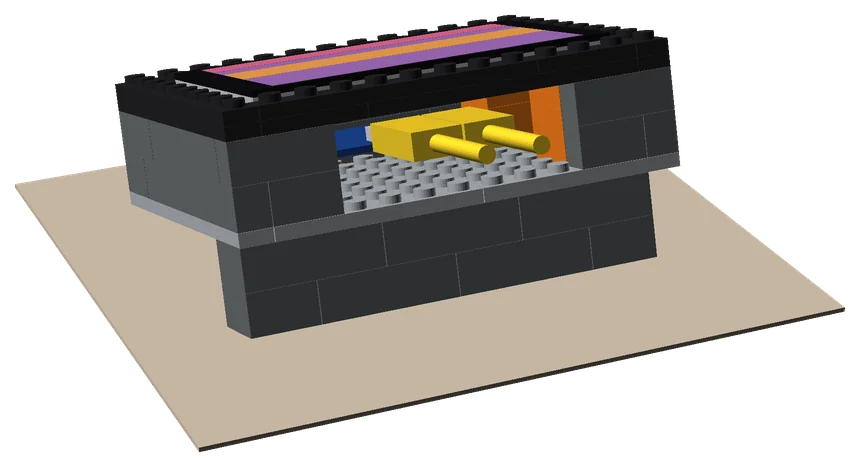
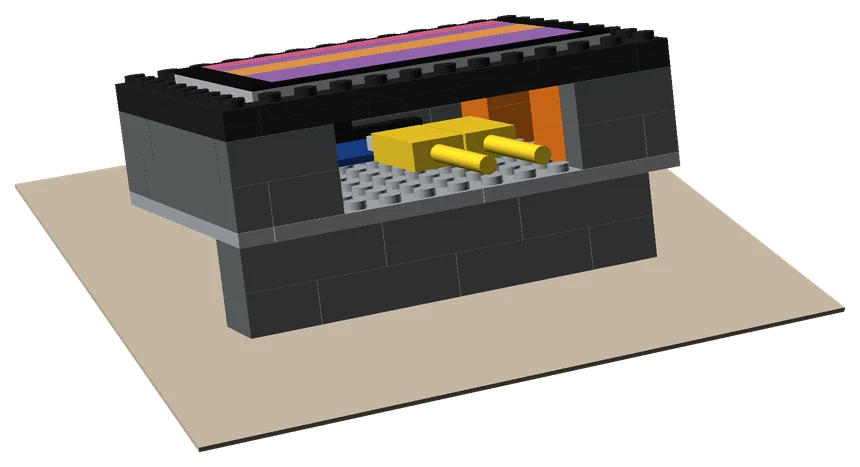
Screen page: the Lego tray reworked to the measured box
Taller pillars (22.4 mm), a single tile as the stop, 49 parts in 13 kinds.
The sizes are now read from photos of the real box; the page says so, and
what to do at step 4 if the pins touch the floor.

Claude-Session: https://claude.ai/code/session_01T5obJLGpxqm4RGcUwvyqqe

Changed region(s): [[0.1814, 0.03, 0.7256, 0.2099], [0.3628, 0.2099, 0.6651, 0.3897]]

diff --git a/web/screen/index.html b/web/screen/index.html
@@ -266,14 +266,14 @@ p.small code { overflow-wrap: anywhere; }
 <div><p class="kick">A stand from bricks</p><h2 id="trayh">Build it a Lego tray</h2></div></div>
 <div class="buy">
 <div>
-<p class="stand">A tray of ordinary Lego bricks that holds the VOXBOX <em>at a tilt</em>: 53 parts, seven steps.</p>
-<p class="caveat"><b>An untested design.</b> Nobody has built it from real bricks yet; I plan to. It is drawn around guesses at the boards' sizes, not measurements, so try the fit with the real boards at step 4.</p>
+<p class="stand">A tray of ordinary Lego bricks that holds the VOXBOX <em>at a tilt</em>: 49 parts, seven steps.</p>
+<p class="caveat"><b>An untested design.</b> Nobody has built it from real bricks yet; I plan to. Its sizes are read from photos of the real box, not taken with a ruler, and the tightest gap is 1.2 mm, so try the fit with the real boards at step 4.</p>
 <p class="vids"><a class="btn go big" href="voxbox-lego-tray.ldr" download>Download the model</a></p>
-<p class="small" style="margin-top:14px">voxbox-lego-tray.ldr, an LDraw file, 2,848 bytes. It opens in BrickLink's free Studio; how is in the small print below.</p>
+<p class="small" style="margin-top:14px">voxbox-lego-tray.ldr, an LDraw file, 2,670 bytes. It opens in BrickLink's free Studio; how is in the small print below.</p>
 <ul class="facts">
 <li><b>13 × 10</b>studs across, 104 × 80 mm</li>
 <li><b>11 × 7</b>studs of pocket, 88 × 56 mm</li>
-<li><b>53</b>parts, 14 kinds</li>
+<li><b>49</b>parts, 13 kinds</li>
 </ul>
 </div>
 <div>
@@ -289,7 +289,7 @@ p.small code { overflow-wrap: anywhere; }
 <li><img src="img/lego/step1.webp" width="906" height="660" loading="lazy" alt="Step 1, drawn: the floor, the new parts in orange"><b>The floor</b><span>2 × Plate 6 × 10, 1 × Plate 1 × 10.</span></li>
 <li><img src="img/lego/step2.webp" width="984" height="749" loading="lazy" alt="Step 2, drawn: the first course of the wall, the new parts in orange"><b>The first course of the wall</b><span>3 × Brick 2 × 4, 3 × Brick 1 × 2, 2 × Brick 1 × 8.</span></li>
 <li><img src="img/lego/step3.webp" width="948" height="754" loading="lazy" alt="Step 3, drawn: the second course, the new parts in orange"><b>The second course</b><span>4 × Brick 1 × 3, 2 × Brick 2 × 4, 1 × Brick 2 × 3, 2 × Brick 1 × 6.</span></li>
-<li><img src="img/lego/step4.webp" width="948" height="754" loading="lazy" alt="Step 4, drawn: three pillars and the low rest, the new parts in orange"><b>Three pillars and the low rest</b><span>3 × Brick 2 × 2, 7 × Plate 2 × 2, 4 × Tile 2 × 2. Try the two boards in the pocket here, before the wall is capped.</span></li>
+<li><img src="img/lego/step4.webp" width="936" height="745" loading="lazy" alt="Step 4, drawn: three pillars and the stop, the new parts in orange, the front wall drawn see-through"><b>Three pillars and the stop</b><span>6 × Brick 2 × 2, 4 × Tile 2 × 2. Try the two boards in the pocket here, before the wall's plates go on. If the pins touch the floor, add one Plate 2 × 2 under each pillar's tile.</span></li>
 <li><img src="img/lego/step5.webp" width="929" height="750" loading="lazy" alt="Step 5, drawn: the first layer of plates on the wall, the new parts in orange"><b>The first layer of plates on the wall</b><span>2 × Plate 2 × 6, 1 × Plate 1 × 10, 2 × Plate 1 × 8, 1 × Plate 1 × 3.</span></li>
 <li><img src="img/lego/step6.webp" width="910" height="746" loading="lazy" alt="Step 6, drawn: the second layer of plates, the new parts in orange"><b>The second layer of plates</b><span>1 × Plate 1 × 10, 2 × Plate 2 × 6, 2 × Plate 1 × 8, 1 × Plate 1 × 3.</span></li>
 <li><img src="img/lego/step7.webp" width="836" height="597" loading="lazy" alt="Step 7, drawn: the foot under the back edge, the new parts in orange"><b>The foot under the back edge</b><span>5 × Brick 2 × 4, 2 × Brick 2 × 2.</span></li>
@@ -415,9 +415,10 @@ or Edge still paints the full landscape from an FM-1 plugged into the computer.<
 </div>
 </div>
 </div></details>
-<details id="tray-parts"><summary>The tray's parts <small>53 bricks, plates and tiles</small></summary><div class="in">
-<table class="parts"><thead><tr><th>How many</th><th>Part</th><th>LDraw number</th></tr></thead><tbody><tr><td>10</td><td>Brick 2 × 4</td><td>3001</td></tr><tr><td>2</td><td>Brick 1 × 8</td><td>3008</td></tr><tr><td>1</td><td>Brick 2 × 3</td><td>3002</td></tr><tr><td>2</td><td>Brick 1 × 6</td><td>3009</td></tr><tr><td>5</td><td>Brick 2 × 2</td><td>3003</td></tr><tr><td>4</td><td>Brick 1 × 3</td><td>3622</td></tr><tr><td>3</td><td>Brick 1 × 2</td><td>3004</td></tr><tr><td>2</td><td>Plate 6 × 10</td><td>3033</td></tr><tr><td>4</td><td>Plate 2 × 6</td><td>3795</td></tr><tr><td>3</td><td>Plate 1 × 10</td><td>4477</td></tr><tr><td>4</td><td>Plate 1 × 8</td><td>3460</td></tr><tr><td>7</td><td>Plate 2 × 2</td><td>3022</td></tr><tr><td>4</td><td>Tile 2 × 2</td><td>3068b</td></tr><tr><td>2</td><td>Plate 1 × 3</td><td>3623</td></tr></tbody></table>
-<p>The tray is drawn around guesses, not measurements: a board of 85.5 × 56 mm, 1.6 mm thick, with 14 mm of parts under it and 7 mm above.</p>
+<details id="tray-parts"><summary>The tray's parts <small>49 bricks, plates and tiles</small></summary><div class="in">
+<table class="parts"><thead><tr><th>How many</th><th>Part</th><th>LDraw number</th></tr></thead><tbody><tr><td>10</td><td>Brick 2 × 4</td><td>3001</td></tr><tr><td>2</td><td>Brick 1 × 8</td><td>3008</td></tr><tr><td>1</td><td>Brick 2 × 3</td><td>3002</td></tr><tr><td>2</td><td>Brick 1 × 6</td><td>3009</td></tr><tr><td>8</td><td>Brick 2 × 2</td><td>3003</td></tr><tr><td>4</td><td>Brick 1 × 3</td><td>3622</td></tr><tr><td>3</td><td>Brick 1 × 2</td><td>3004</td></tr><tr><td>2</td><td>Plate 6 × 10</td><td>3033</td></tr><tr><td>4</td><td>Plate 2 × 6</td><td>3795</td></tr><tr><td>3</td><td>Plate 1 × 10</td><td>4477</td></tr><tr><td>4</td><td>Plate 1 × 8</td><td>3460</td></tr><tr><td>4</td><td>Tile 2 × 2</td><td>3068b</td></tr><tr><td>2</td><td>Plate 1 × 3</td><td>3623</td></tr></tbody></table>
+<p>The tray is drawn around sizes read from photos of the real box, scaled by its 2.54 mm pin spacing and good to about 0.7 mm; none has been checked with a ruler. The screen's board is 85.5 × 56 mm, its nominal size. Under it, the small board's face is 17.9 mm down and the tips of its soldered pins 19.5 mm; above it, the glass is 4.6 mm up.</p>
+<p>On pillars of 22.4 mm the pin tips clear the floor's studs by 1.2 mm, which is about the size of the measuring error. If they touch, one Plate 2 × 2 under each pillar's tile lifts the boards 3.2 mm. The glass stands about 1.3 mm above the wall's studs. The tile on the floor carries nothing: it sits 1.3 mm under the small board and stops that corner dipping when the screen is pressed.</p>
 </div></details>
 <details id="tray-studio"><summary>Opening the tray in Studio <small>the file, its steps, its parts</small></summary><div class="in">
 <ol class="plain">
